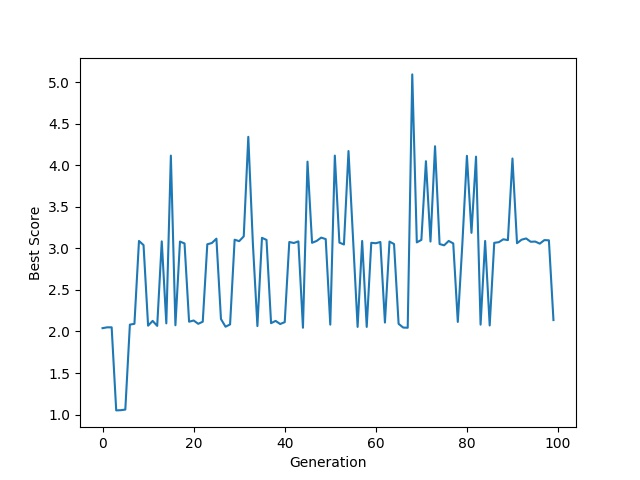
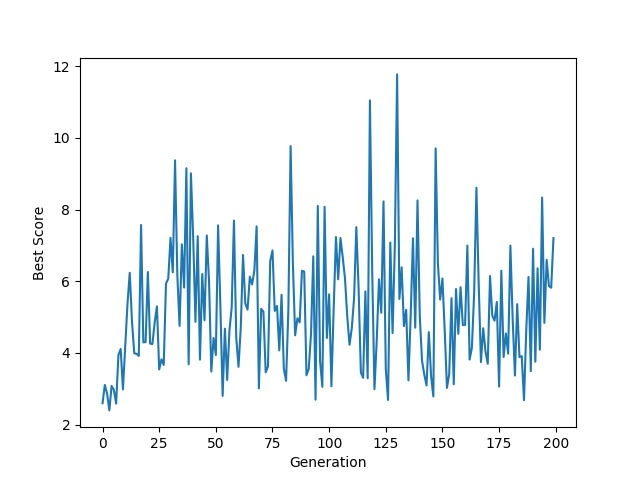
Trying to get staleness to work properley, realized that copy takes a long time and I should remove it where I can.

diff --git a/Environment.py b/Environment.py
@@ -31,7 +31,7 @@ class Environment:
         self.large_genome_size = 20  # the size at which a genome is considered "large"
 
         self.staleness = []
-        self.max_staleness = 15
+        self.max_staleness = 40
         self.max_score = []
 
     def create(self, nr):
@@ -49,45 +49,40 @@ class Environment:
         species_champ = []
         species_surv = []
         averages = []
+        old_species = []
         # Raw scoring
-        # self.staleness += ((len(self.species) - len(self.staleness)) * [0])
-        # self.max_score += ((len(self.species) - len(self.max_score)) * [0])
+        self.staleness += ((len(self.species) - len(self.staleness)) * [0])
+        self.max_score += ((len(self.species) - len(self.max_score)) * [0])
         for s in self.species:
             i = self.species.index(s)
             for g in s:
                 g.score = (self.score_genome(g) * random.gauss(1, self.randomness)) / len(s)
             s.sort(key=lambda x: x.score, reverse=True)
+            old_species.append(copy.deepcopy(s))
+            # species_champ.append(s[:self.carry])
+            # species_surv.append(s[:math.ceil(self.keep * len(s))])
+            # averages.append(sum(g.score for g in s))
 
-            species_champ.append(s[:self.carry])
-            species_surv.append(s[:math.ceil(self.keep * len(s))])
-            averages.append(sum(g.score for g in s))
+            if s[0].score >= self.max_score[i]:
+                self.staleness[i] = 0
+                self.max_score[i] = s[0].score
+            else:
+                self.staleness[i] += 1
 
-            # if s[0].score * len(s) > self.max_score[i]:
-            #     self.staleness[i] = 0
-            #     self.max_score[i] = s[0].score * len(s)
-            # else:
-            #     self.staleness[i] += 1
-            #
-            # if not (self.staleness[i] > self.max_staleness):
-            #     species_champ.append(s[:self.carry])
-            #     species_surv.append(s[:math.ceil(self.keep * len(s))])
-            #     averages.append(sum(g.score for g in s))
-            # else:
-            #     if len(self.species) <= 1:
-            #         species_champ.append(s[:self.carry])
-            #         species_surv.append(s[:self.carry])
-            #         averages.append(sum(g.score for g in s))
-            #     else:
-            #         self.max_score.pop(i)
-            #         self.max_score.pop(i)
-            #         self.species.pop(i)
+            if (not (self.staleness[i] > self.max_staleness)) or len(self.species) <= 1:
+                species_champ.append(s[:self.carry])
+                species_surv.append(s[:math.ceil(self.keep * len(s))])
+                averages.append(sum(g.score for g in s))
+            else:
+                self.max_score.pop(i)
+                self.staleness.pop(i)
+                self.species.pop(i)
 
         # Checking "Staleness"
 
         # Allocating and creating offspring
         new_population = []
         self.prev_innovation = [[], []]
-        old_species = self.species
         total = sum(averages)
         new_genome_nr = self.population
         for i in range(len(species_surv)):

diff --git a/Main.py b/Main.py
@@ -10,14 +10,14 @@ fig = plt.figure()
 ax = plt.axes()
 
 snake = Snake([20, 20])
-test = Environment(snake, dist=[1.01, 1, .01], mutation_rates=[0.8, 0.05, 0.01], keep=.33)
+test = Environment(snake, dist=[1.01, 1, .1], mutation_rates=[0.8, 0.05, 0.01], keep=.33, randomness=0)
 test.create(200)
 
 t = time.time()
 best_score = 0
 best_play = []
 top_scores = []
-for i in range(100):
+for i in range(500):
     species = [len(s) for s in test.species]
     r = test.generation(replay=[1, 3])
     sort = sorted(r, key=lambda x: sorted(x, key=lambda y: y.score * len(x), reverse=True)[0].score * len(x),
